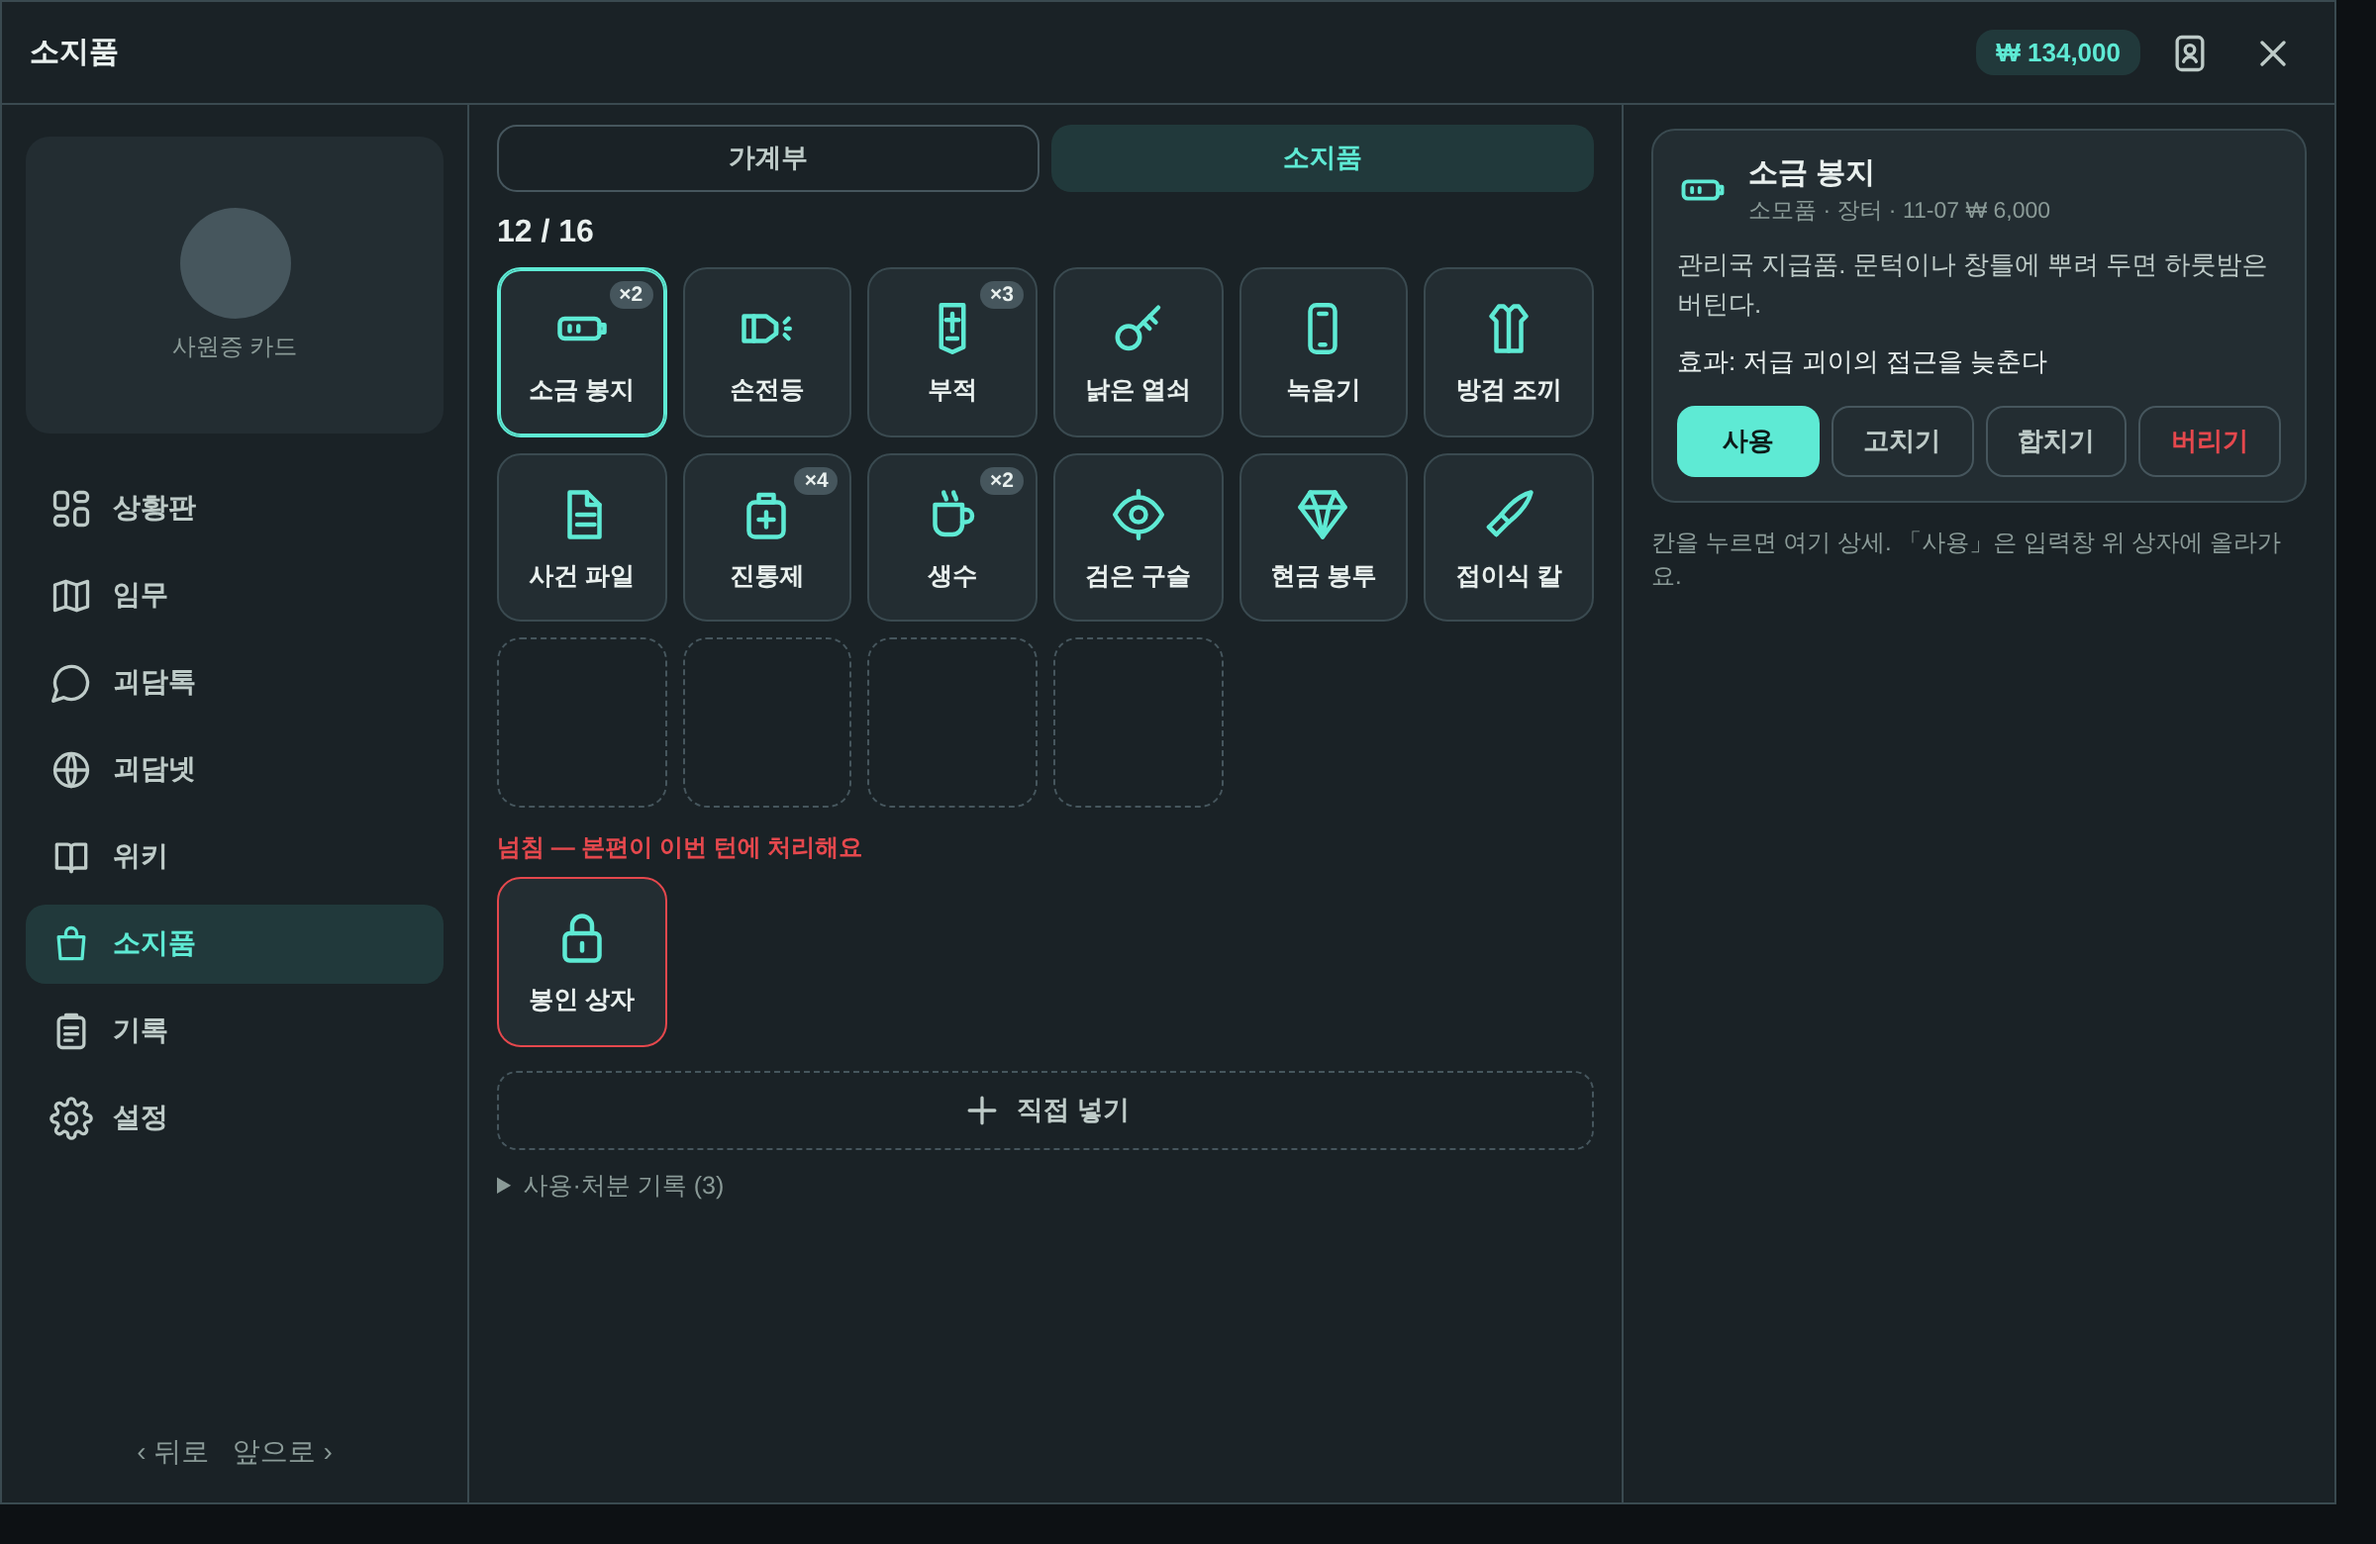
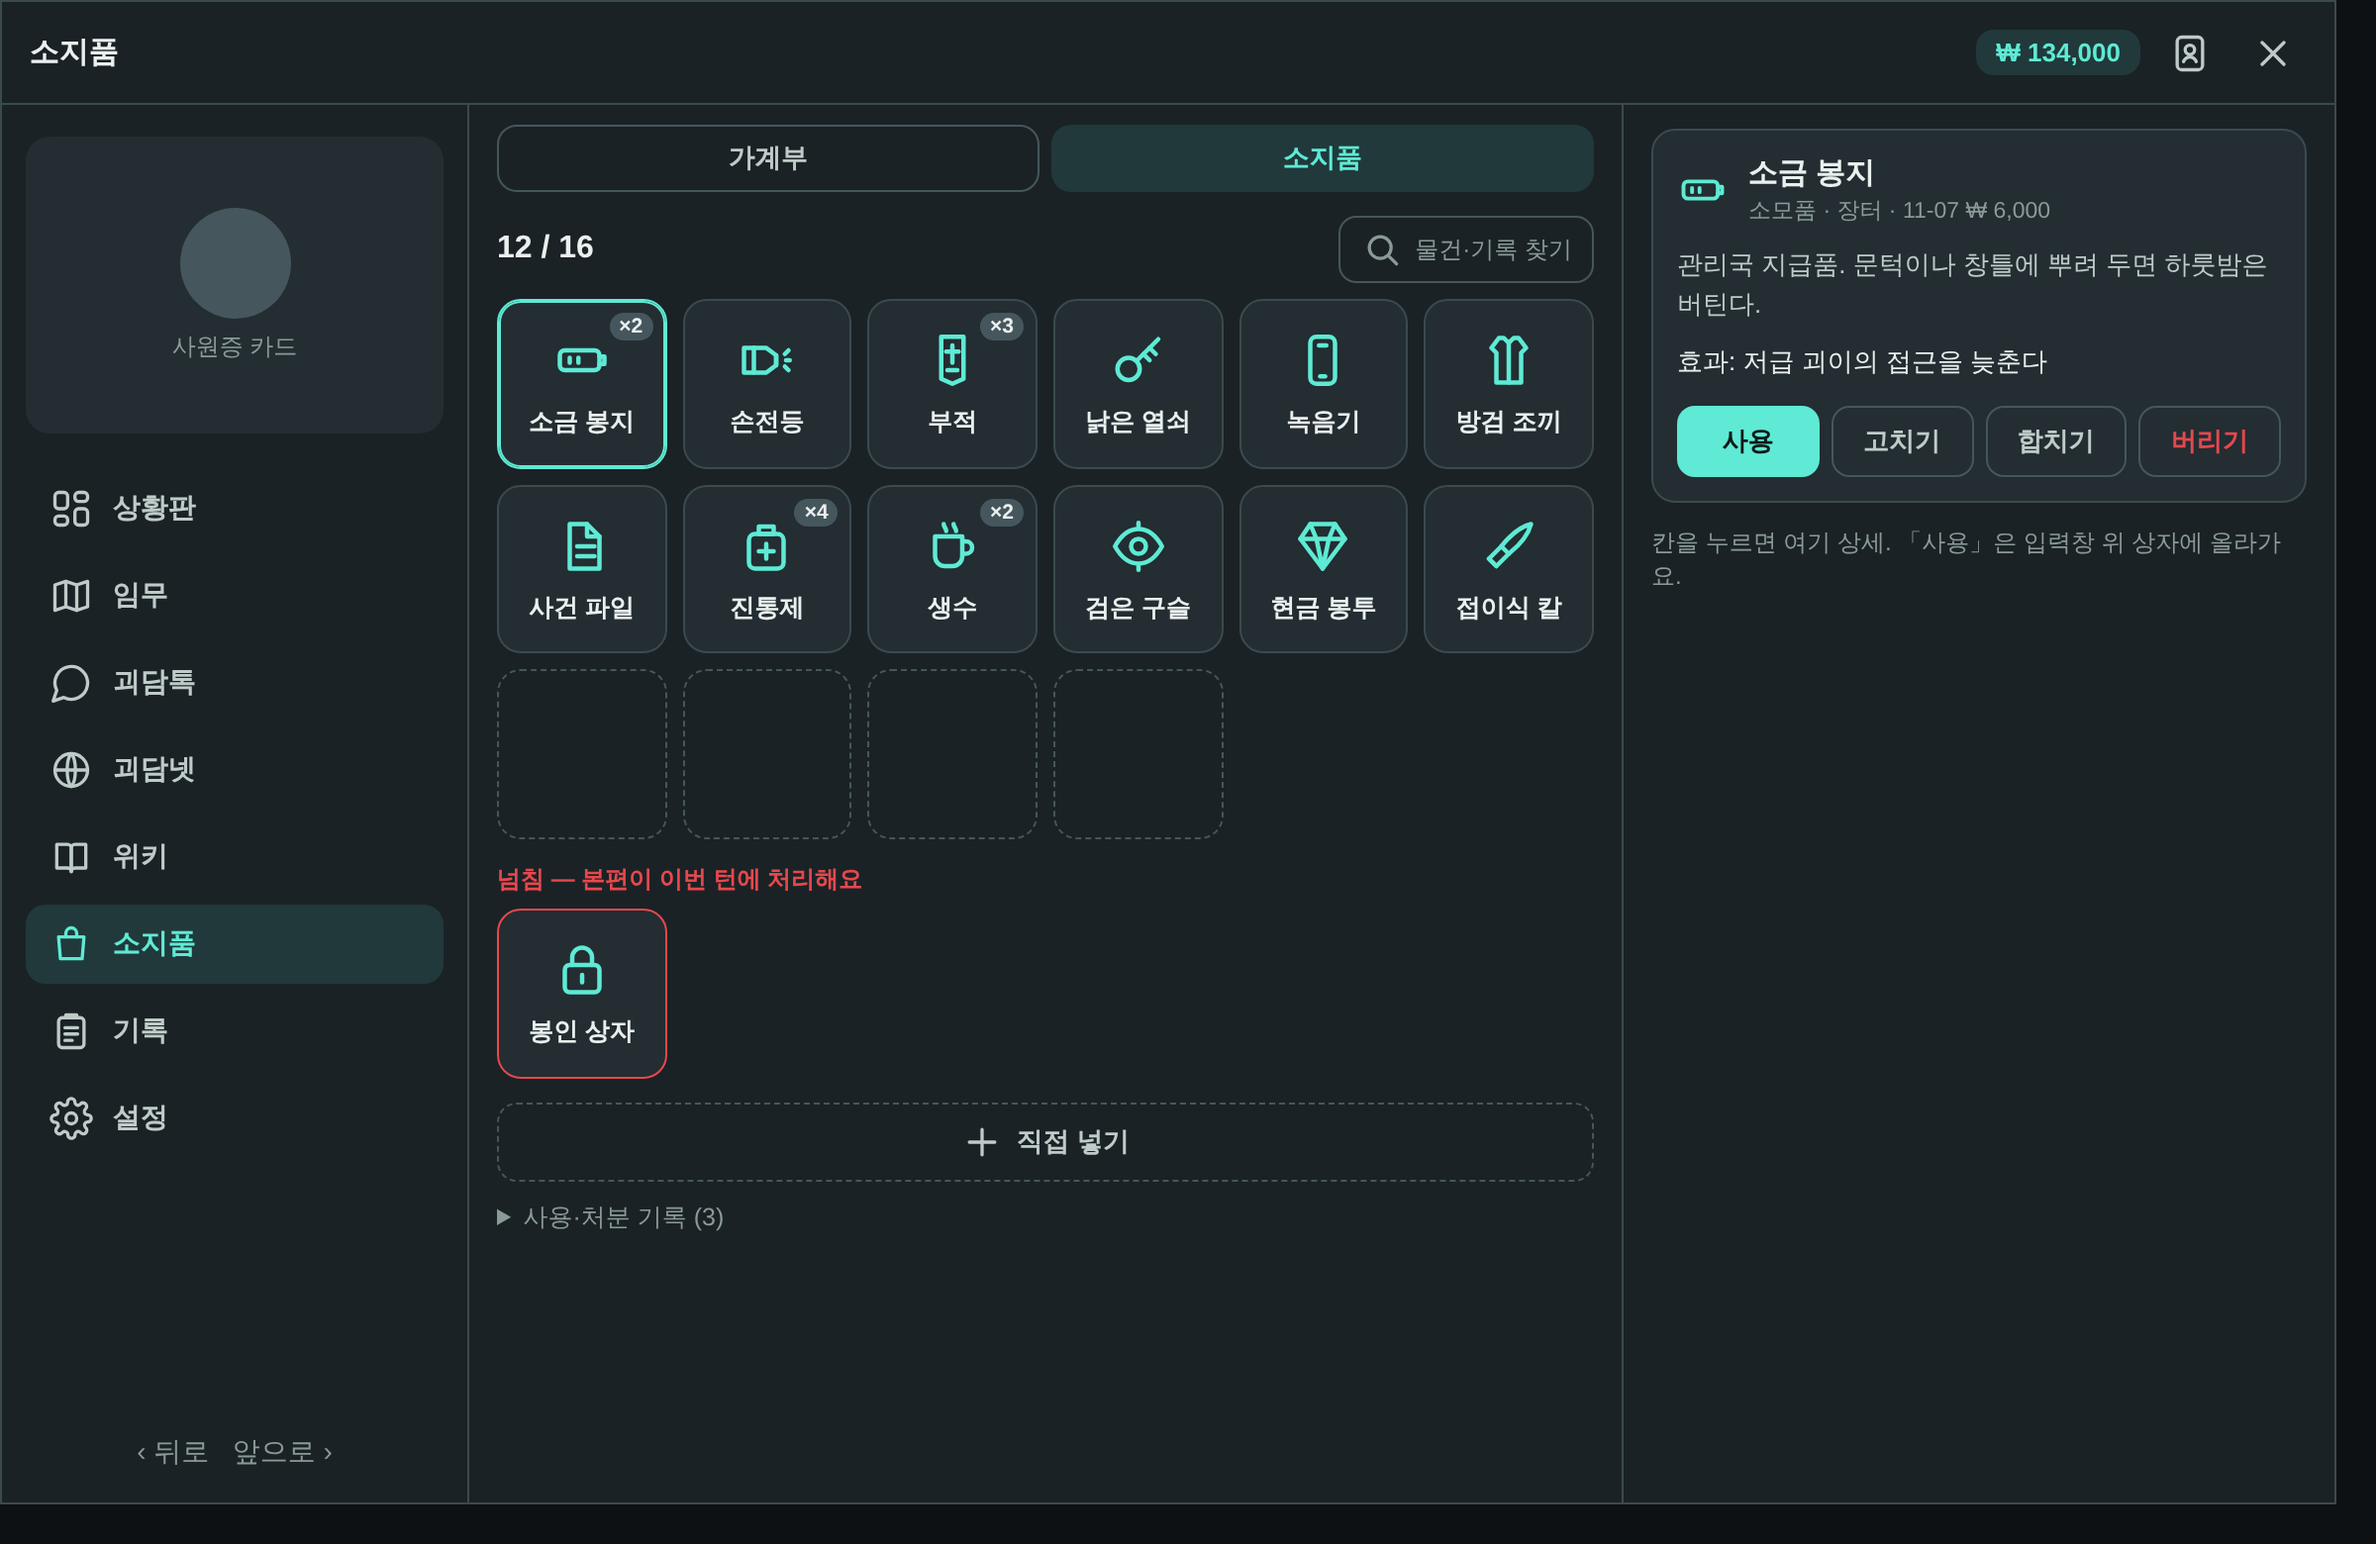
docs: 찾기는 물건+사용·처분 기록까지
Claude-Session: https://claude.ai/code/session_01JodrzgXiBj48cr5zdUWTjA

diff --git a/docs/인계/소지품_1107/소지품_계획_1107.md b/docs/인계/소지품_1107/소지품_계획_1107.md
@@ -49,7 +49,7 @@
 
 ### 화면·메뉴
 - 새 메뉴 **「소지품」** › 하위 탭 [가계부 | 소지품]. 기록은 [일지 | 연대기 | 인물 | 세력]. 옛 즐겨찾기·이동 기록의 「기록 › 가계부」는 새 자리로.
-- 소지품 탭: 목록(이름·설명·출처 아이콘·근거) → 줄 펼치면 [사용] [설명 고치기] [합치기] [버리기] → 맨 아래 「직접 넣기」, 접힌 「사용·처분 기록」. 찾기 없음.
+- 소지품 탭: 목록(이름·설명·출처 아이콘·근거) → 줄 펼치면 [사용] [설명 고치기] [합치기] [버리기] → 맨 아래 「직접 넣기」, 접힌 「사용·처분 기록」. 찾기(물건+기록).
 - 폰: 아래 바 [임무 · 기록 · 상황판 · 괴담톡 · 소지품]. 탭 도구 줄(52px, 맨 오른쪽 ≡) 아래 바 위에 **상시**. ≡ → 도구 줄 위로 가로 한 줄 [위키 · 괴담넷 · 설정]. 머리줄 [잔고 · 사원증 · 닫기](잔고 → 소지품 › 가계부). 옛 손잡이(ph-grip)·상황판 즐겨찾기(markSlots) 없앰.
 - PC: 옆 메뉴에 「소지품」(기록 위), 맨 아래 ★ 즐겨찾기 없애고 [뒤로][앞으로]만. 머리줄 PC도 잔고·사원증·닫기만.
 - 설정 「소지품」 묶음(`$it_*`): 본편에 넘기기 · 본문 자동 읽기 · 소지 한계 문장.
